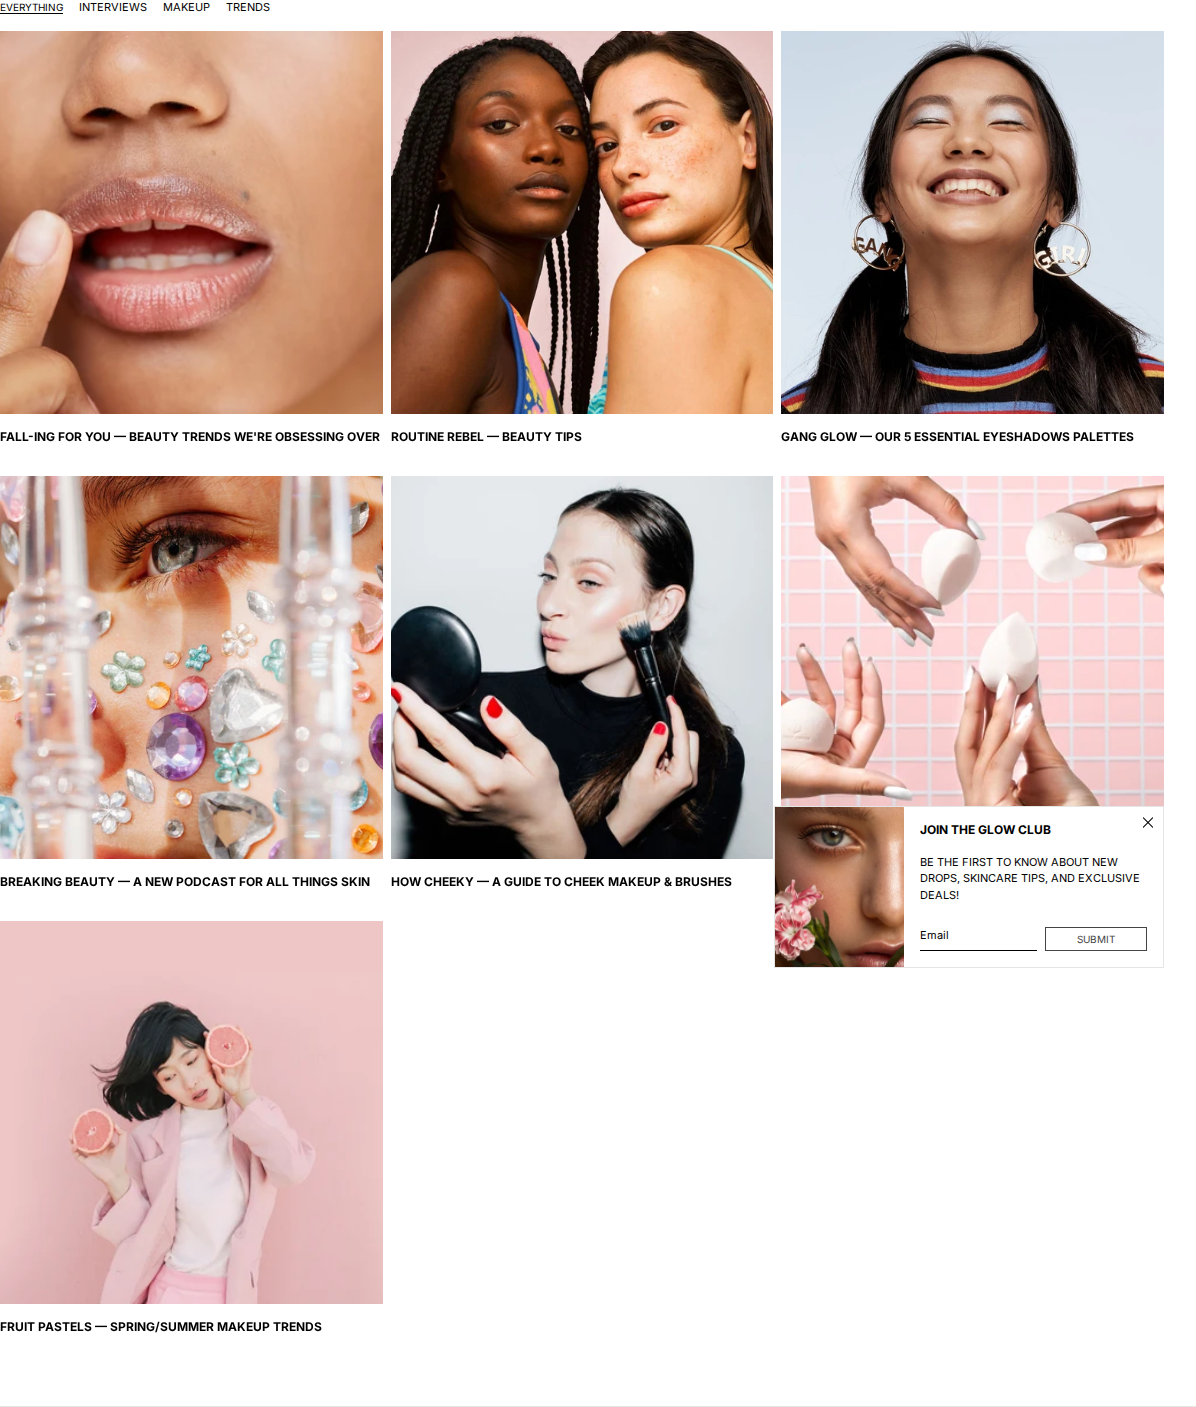
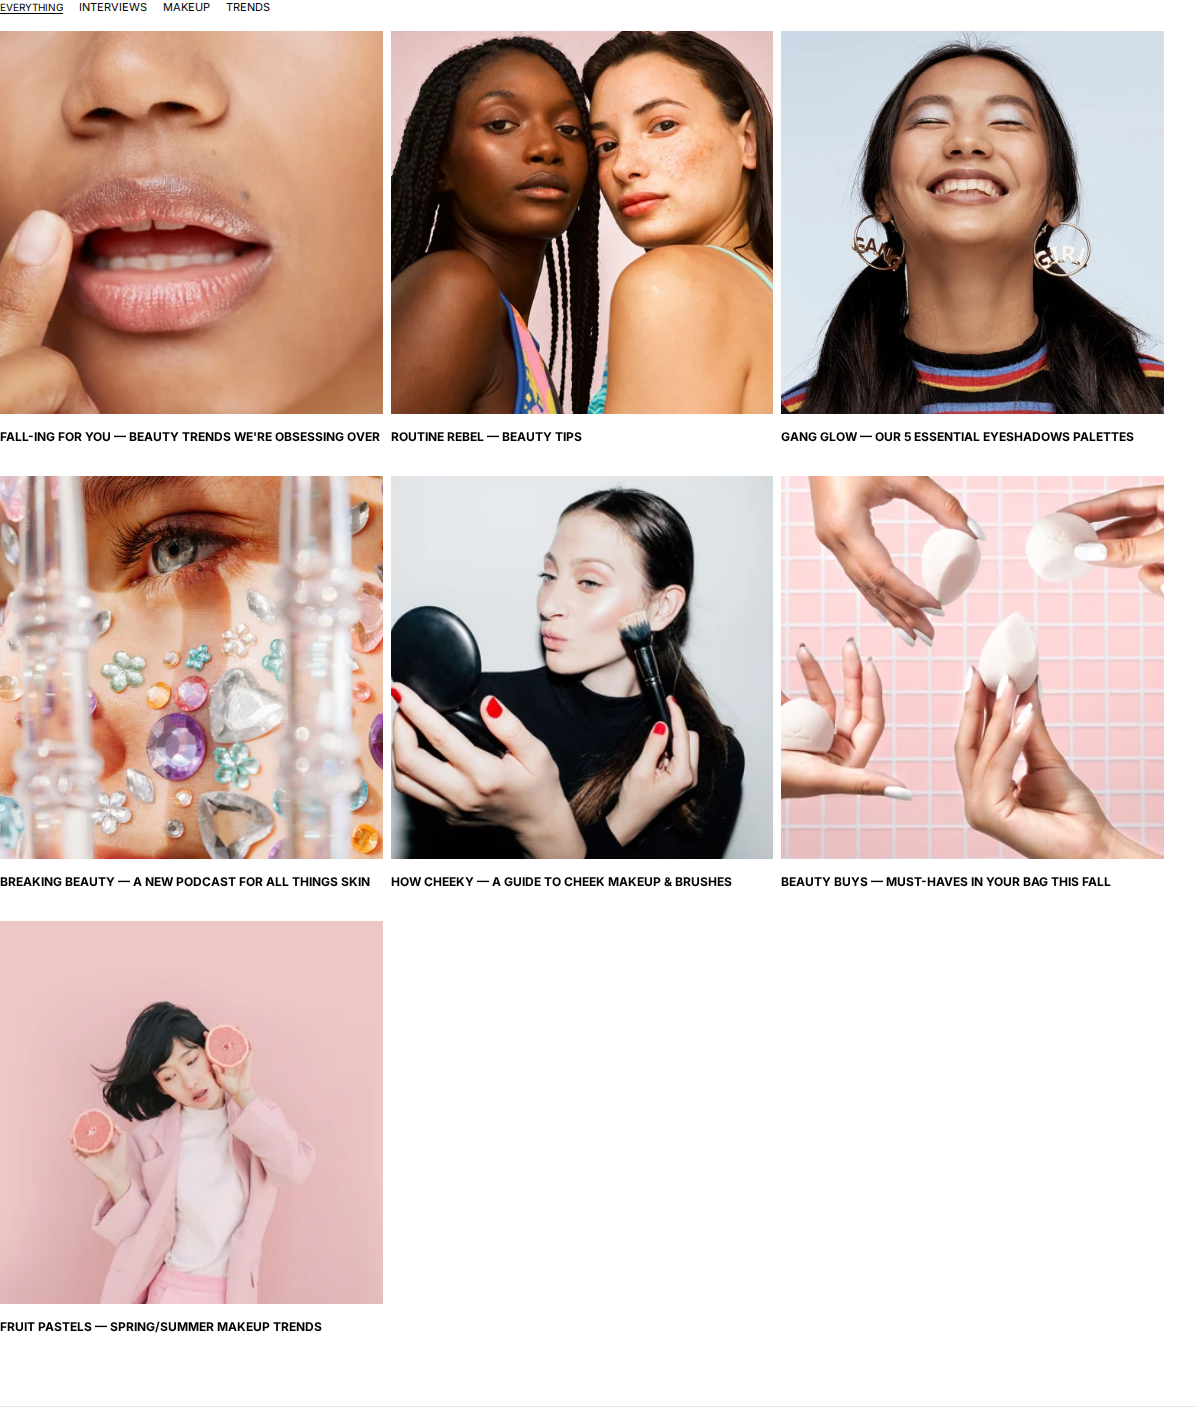
Blockshop inventory: cart interact, clean blog 3vp, leftovers
Recapture cart page empty/qty and cart drawer empty/filled/qty.
Close Glow Club on blog list. Pixel-checked interact deltas
(75ML→200ML, cream search, Shop accordion). Validate 0 error.

Changed region(s): [[0.6497, 0.5501, 0.99, 0.7029]]

diff --git a/todo/blockshop.md b/todo/blockshop.md
@@ -8,8 +8,8 @@
 
 *Tema (vitrinde görülen, uydurulmadı):* `Shopify.theme.name` **Copy of design [do not delete]** · `id` `134976438327` · `schema_name` **Blockshop** · `schema_version` **13.2.0** · `theme_store_id` **null** · `role` `main` · shop `blockshop-theme-beauty.myshopify.com`
 
-**Durum:** Mod A walk + resmi 3vp + interact + validate **yapılıyor**  
-**PR:** draft — **main'e merge yok**
+**Durum:** Mod A walk + resmi 3vp + interact + validate **bitti**  
+**PR:** https://github.com/mattiasadem/qante/pull/156 — **draft · main'e merge yok**
 
 ---
 
@@ -32,22 +32,22 @@
 
 | Şablon | Durum | 3vp |
 |---|---|---|
-| Home + sidebar header / featured-grid / bestsellers / footer | roster | [ ] |
-| Shop accordion 768/1440 (mega yok) | interact | [ ] |
-| Predictive search `cream` | interact 3vp | [ ] |
-| Mobile menu 375 | interact | [ ] |
+| Home + sidebar header / featured-grid / bestsellers / footer | bitti | [x] |
+| Shop accordion 768/1440 (mega yok) | interact | [x] |
+| Predictive search `cream` | interact 3vp | [x] |
+| Mobile menu 375 | interact | [x] |
 | Mobile menu 768 | ⛔ hamburger 0×0 (sidebar) | leftover |
-| Cart drawer empty + filled + qty | interact 3vp | [ ] |
-| PDP Brightening Serum 75ML→200ML | interact 3vp | [ ] |
-| PLP `/collections/all` | roster | [ ] |
-| Collections index `/collections` | roster | [ ] |
-| Search `/search?q=cream` | roster | [ ] |
-| Cart page empty + filled + qty | interact 3vp | [ ] |
-| About `/pages/about-us` | roster | [ ] |
-| Contact form (submit yok) | roster | [ ] |
-| FAQ `/pages/faqs` | roster | [ ] |
-| News + Future Tones | roster | [ ] |
-| 404 | roster | [ ] |
+| Cart drawer empty + filled + qty | interact 3vp | [x] |
+| PDP Brightening Serum 75ML→200ML | interact 3vp | [x] |
+| PLP `/collections/all` | roster | [x] |
+| Collections index `/collections` | roster | [x] |
+| Search `/search?q=cream` | roster | [x] |
+| Cart page empty + filled + qty | interact 3vp | [x] |
+| About `/pages/about-us` | roster | [x] |
+| Contact form (submit yok) | roster | [x] |
+| FAQ `/pages/faqs` | roster | [x] |
+| News + Future Tones (FALL-ING FOR YOU) | roster | [x] |
+| 404 | roster | [x] |
 | Email / account / checkout / newsletter submit | ⛔ dur | — |
 
 ---
@@ -56,44 +56,44 @@
 
 | # | id | sayfa | Screenshot | Not | JSON | Done |
 |---|---|---|---|---|---|---|
-| 1 | navigation-header-mega | home | [ ] | sidebar; mega yok | reuse | [ ] |
-| 2 | global-menu-drawer | home | [ ] | 375 | reuse | [ ] |
-| 3 | global-predictive-search | home | [ ] | cream | reuse | [ ] |
-| 4 | global-cart-drawer | home | [ ] | boş+dolu+qty | reuse | [ ] |
-| 5 | collection-nav-image-cards | home | [ ] | SKINCARE/MAKEUP | reuse | [ ] |
-| 6 | product-showcase-grid-featured | home | [ ] | BEST SELLERS | reuse | [ ] |
-| 7 | editorial-rich-text | home | [ ] | Avalon | reuse | [ ] |
-| 8 | collection-nav-image-cards-2 | home | [ ] | 3 hikâye | reuse | [ ] |
-| 9 | testimonial-quote-carousel | home | [ ] | logo_list alıntı | reuse | [ ] |
-| 10 | editorial-image-with-text | home | [ ] | Ritual | reuse | [ ] |
-| 11 | trust-icon-row | home | [ ] | kargo/iade | reuse | [ ] |
-| 12 | collection-nav-cards | home | [ ] | routine | reuse | [ ] |
-| 13 | editorial-rich-text-2 | home | [ ] | manifesto | reuse | [ ] |
-| 14 | footer-columns-newsletter | home | [ ] | submit yok | reuse | [ ] |
-| 15 | product-info-main | product-detail | [ ] | 75→200 | reuse | [ ] |
-| 16 | features-multicolumn | product-detail | [ ] | ingredients | reuse | [ ] |
-| 17 | editorial-rich-text | product-detail | [ ] | Glow Guide | reuse | [ ] |
-| 18 | product-showcase-related | product-detail | [ ] | Boost | reuse | [ ] |
-| 19 | trust-icon-row | product-detail | [ ] | icons_row | reuse | [ ] |
-| 20 | faq-collapsible-tabs | product-detail | [ ] | PDP FAQ | reuse | [ ] |
-| 21 | media-shop-the-feed | product-detail | [ ] | @YOUR.BRAND | reuse | [ ] |
-| 22 | testimonial-quote-carousel | product-detail | [ ] | journeys | reuse | [ ] |
-| 23 | product-showcase-grid-plp | collection | [ ] | all | reuse | [ ] |
-| 24 | collection-nav-image-cards | collection | [ ] | latest/best | reuse | [ ] |
-| 25 | collection-nav-grid | collections | [ ] | index | reuse | [ ] |
-| 26 | search-results | search | [ ] | cream | reuse | [ ] |
-| 27 | cart-page-main | cart | [ ] | boş+dolu+qty | reuse | [ ] |
-| 28 | editorial-image-with-text | about-brand | [ ] | Our Story | reuse | [ ] |
-| 29 | editorial-rich-text | about-brand | [ ] | kurucular | reuse | [ ] |
-| 30 | editorial-image-with-text-2 | about-brand | [ ] | Rachel | reuse | [ ] |
-| 31 | editorial-rich-text-2 | about-brand | [ ] | quote | reuse | [ ] |
-| 32 | editorial-rich-text | contact | [ ] | How can we help | reuse | [ ] |
-| 33 | lead-capture-form | contact | [ ] | submit yok | reuse | [ ] |
-| 34 | faq-collapsible-tabs | faq-support | [ ] | shipping | reuse | [ ] |
-| 35 | editorial-rich-text | faq-support | [ ] | further | reuse | [ ] |
-| 36 | blog-list-main | blog-list | [ ] | news | reuse | [ ] |
-| 37 | blog-post-main | blog-post | [ ] | future-tones | reuse | [ ] |
-| 38 | page-content-main | not-found | [ ] | 404 | reuse | [ ] |
+| 1 | navigation-header-mega | home | [x] | sidebar; mega yok | reuse | [x] |
+| 2 | global-menu-drawer | home | [x] | 375 | reuse | [x] |
+| 3 | global-predictive-search | home | [x] | cream | reuse | [x] |
+| 4 | global-cart-drawer | home | [x] | boş+dolu+qty | reuse | [x] |
+| 5 | collection-nav-image-cards | home | [x] | SKINCARE/MAKEUP | reuse | [x] |
+| 6 | product-showcase-grid-featured | home | [x] | BEST SELLERS | reuse | [x] |
+| 7 | editorial-rich-text | home | [x] | Avalon | reuse | [x] |
+| 8 | collection-nav-image-cards-2 | home | [x] | 3 hikâye | reuse | [x] |
+| 9 | social-proof-brand-logos | home | [x] | logo_list alıntı+logo | reuse | [x] |
+| 10 | editorial-image-with-text | home | [x] | Ritual | reuse | [x] |
+| 11 | trust-icon-row | home | [x] | kargo/iade | reuse | [x] |
+| 12 | collection-nav-cards | home | [x] | routine | reuse | [x] |
+| 13 | editorial-rich-text-2 | home | [x] | manifesto | reuse | [x] |
+| 14 | footer-columns-newsletter | home | [x] | submit yok | reuse | [x] |
+| 15 | product-info-main | product-detail | [x] | 75→200 | reuse | [x] |
+| 16 | faq-collapsible-tabs-2 | product-detail | [x] | KEY INGREDIENTS | reuse | [x] |
+| 17 | editorial-image-with-text | product-detail | [x] | Glow Guide | reuse | [x] |
+| 18 | product-showcase-related | product-detail | [x] | Boost | reuse | [x] |
+| 19 | trust-icon-row | product-detail | [x] | icons_row | reuse | [x] |
+| 20 | faq-collapsible-tabs | product-detail | [x] | PDP FAQ | reuse | [x] |
+| 21 | media-shop-the-feed | product-detail | [x] | @YOUR.BRAND | reuse | [x] |
+| 22 | testimonial-quote-carousel | product-detail | [x] | journeys | reuse | [x] |
+| 23 | product-showcase-grid-plp | collection | [x] | all | reuse | [x] |
+| 24 | collection-nav-image-cards | collection | [x] | latest/best | reuse | [x] |
+| 25 | collection-nav-grid | collections | [x] | index | reuse | [x] |
+| 26 | search-results | search | [x] | cream | reuse | [x] |
+| 27 | cart-page-main | cart | [x] | boş+dolu+qty | reuse | [x] |
+| 28 | editorial-image-with-text | about-brand | [x] | Our Story | reuse | [x] |
+| 29 | editorial-rich-text | about-brand | [x] | kurucular | reuse | [x] |
+| 30 | editorial-image-with-text-2 | about-brand | [x] | Rachel | reuse | [x] |
+| 31 | editorial-rich-text-2 | about-brand | [x] | quote | reuse | [x] |
+| 32 | editorial-rich-text | contact | [x] | How can we help | reuse | [x] |
+| 33 | lead-capture-form | contact | [x] | submit yok | reuse | [x] |
+| 34 | faq-collapsible-tabs | faq-support | [x] | shipping | reuse | [x] |
+| 35 | editorial-rich-text | faq-support | [x] | further | reuse | [x] |
+| 36 | blog-list-main | blog-list | [x] | news | reuse | [x] |
+| 37 | blog-post-main | blog-post | [x] | future-tones | reuse | [x] |
+| 38 | page-content-main | not-found | [x] | 404 | reuse | [x] |
 
 ---
 
@@ -101,12 +101,12 @@
 
 | Bileşen | State | Sonuç |
 |---|---|---|
-| navigation-header-mega | initial / open | [ ] Shop accordion 768/1440 |
-| global-predictive-search | initial / input | [ ] cream |
-| global-menu-drawer | open | [ ] 375; 768 leftover |
-| global-cart-drawer | initial / filled / changed | [ ] |
-| cart-page-main | initial / filled / changed | [ ] |
-| product-info-main | initial / changed | [ ] 75ML → 200ML |
+| navigation-header-mega | initial / open | [x] 768/1440 SHOP accordion: SHOP ALL / SKIN CARE / MAKE UP / HAIR CARE. Mega kolon yok. |
+| global-predictive-search | initial / input | [x] boş POPULAR PRODUCTS; `cream` → SUGGESTIONS + 3 ürün + VIEW ALL. 375 2 kolon. |
+| global-menu-drawer | open | [x] 375; 768 leftover |
+| global-cart-drawer | initial / filled / changed | [x] boş → Serum $70 qty1 → qty2 $140 + free shipping |
+| cart-page-main | initial / filled / changed | [x] aynı delta; 375 empty + qty resmi |
+| product-info-main | initial / changed | [x] 75ML $70 → 200ML $135; şişe foto 75ML kaldı |
 
 ---
 
@@ -118,6 +118,6 @@
 
 ## Evidence backlog
 
-- [ ] Statik 3vp
-- [ ] Interact 3vp
-- [ ] `npm run validate` 0 error
+- [x] Statik 3vp
+- [x] Interact 3vp
+- [x] `npm run validate` 0 error

diff --git a/candidates/blockshop-leftovers.md b/candidates/blockshop-leftovers.md
@@ -15,9 +15,9 @@
 | Madde | Ne oldu |
 |---|---|
 | Klasik mega panel | 1440/768 Shop = `<details>` accordion (SHOP ALL / SKIN CARE / MAKE UP / HAIR CARE). Kolon + promo görsel yok. |
-| 768 hamburger | `button.header--drawer-toggle` display:none; nav `aside.layout--sidebar`. 375 drawer resmi; 768 leftover. |
+| 768 hamburger | `button.header--drawer-toggle` display:none; nav `aside.layout--sidebar`. 375 drawer resmi; 768 leftover (eksik çekim değil). |
 | Header shopify-section | 1440/768 yükseklik 0 — içerik `element-relocator` ile sidebar’a taşınır. |
-| JOIN THE GLOW CLUB popup | Newsletter overlay (EMAIL/SUBMIT). Açılmadı / gönderilmedi (PII). |
+| JOIN THE GLOW CLUB popup | Newsletter overlay (EMAIL/SUBMIT). Kapatıldı; gönderilmedi (PII). Blog-list 1440 ilk karede sızdı → close + recapture. |
 | Footer-bar | `#…__footer-bar` — Shopify + ENGLISH + COUNTRY SELECTOR. Locale tıklanmadı. |
 | PLP collection-header | 14px — yalnız “ALL PRODUCTS”. Ayrı observation yok. |
 | PLP recent-products | yükseklik 0. |
@@ -29,18 +29,24 @@
 | Blog recents | CONTINUE READING. Ayrı obs yok. |
 | Blog comments | NAME/EMAIL/COMMENT — PII, dur. |
 | Account / login | Header ACCOUNT — dur. |
-| Checkout / Buy it now | dur. |
+| Checkout / Buy it now | dur. Cart/drawer CHECKOUT görünür, tıklanmadı. |
 | Newsletter SUBMIT / contact submit | PII — dur. |
+| Cart note / REMOVE | LEAVE A NOTE alanı boş bırakıldı; REMOVE yok. |
 | Bright Blush Powder PDP | Aynı şablon, varyant yok. Variant interact = Brightening Serum. |
+| PDP 200ML galeri | Fiyat 70→135 CAD; şişe görseli 75ML etiketli kaldı. |
+| Mobile menu Shop accordion | 375 drawer’da Shop alt menü yoklandı değil (yazılı `<a>` sayfaya gider). |
 
 ## Aday (yeni şema yok)
 
 - **Sidebar header** — `data-layout=sidebar`. `navigation-header-mega` reuse + delta. Yeni tip açılmadı.
-- **logo_list basın alıntısı** — logo yok, 4 quote. `testimonial-quote-carousel` reuse.
+- **logo_list basın alıntısı** — alıntı + 4 logo (375 slider). `social-proof-brand-logos` reuse (testimonial değil).
 - **404** — taxonomy `pageTypes` içinde yok. `page-content-main` + delta.
 
 ## Interact notları
 
-- Predictive: boşta POPULAR PRODUCTS; `cream` → Hydrogel / Luxe / Oat and Juniper + VIEW ALL.
+- Predictive: boşta POPULAR PRODUCTS (Precision Cut Sponge / Hydrogel / Swirl / Nailboi). `cream` → SUGGESTIONS CREAM / JUNIPER HAND CREAM + PRODUCTS Hydrogel 48 / Luxe 36 / Oat and Juniper 28 + VIEW ALL. 375 ürünler 2 kolon.
 - Shop accordion: tıklama `<summary>`; yazılı `<a>` sayfaya gider.
 - 768 menü drawer yok — sidebar. Eksik çekim değil.
+- Cart drawer + cart page: qty `button.quantity-selector--plus[aria-label='Plus']`. $70 → $140; free-shipping eşiği $100.
+- Cart drawer: ATC sonrası home’a dönüp bag açıldı (drawer toggle kapanmasın).
+- PDP SIZE `label.radios--value-button`.
